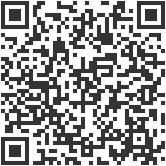
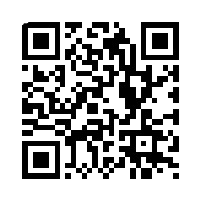
1029_2

diff --git a/index.html b/index.html
@@ -80,8 +80,8 @@
                             </div>
                         </div>
                         <div class="download">
-                            <a href="" class="download-btn"><img src="./assets/images/side/download_Ad.png" alt=""></a>
-                            <a href="" class="download-btn"><img src="./assets/images/side/download_IOS.png" alt=""></a>
+                            <a href="https://play.google.com/store/apps/details?id=com.ytb&pcampaignid=web_share" class="download-btn"><img src="./assets/images/side/download_Ad.png" alt=""></a>
+                            <a href="https://apps.apple.com/tw/app/%E8%82%A1%E7%A5%A8%E9%87%91%E5%A5%BD%E5%80%9F/id1125317071" class="download-btn"><img src="./assets/images/side/download_IOS.png" alt=""></a>
                         </div>
                     </div>
                    
@@ -241,10 +241,10 @@
                                     <img src="assets/images/app/QRcode.png" alt="QRcode">
                                 </div>
                                 <div class="store">
-                                    <a id="applestore" target="_blank" href="https://itunes.apple.com/tw/app/yuan-da-yin-xing-yuanta-commercial/id1173515038">
+                                    <a id="applestore" target="_blank" href="https://apps.apple.com/tw/app/%E8%82%A1%E7%A5%A8%E9%87%91%E5%A5%BD%E5%80%9F/id1125317071">
                                         <img src="./assets/images/side/download_IOS.png" alt="App Store">
                                     </a>
-                                    <a id="googleplay" target="_blank" href="https://play.google.com/store/apps/details?id=com.yuantabank.newmobilebank.android&amp;hl=zh_TW">
+                                    <a id="googleplay" target="_blank" href="https://play.google.com/store/apps/details?id=com.ytb&pcampaignid=web_share">
                                         <img src="./assets/images/side/download_Ad.png" alt="Google Play">
                                     </a>
                                 </div>

diff --git a/assets/css/common.css b/assets/css/common.css
@@ -183,7 +183,6 @@ img {
 .appDownload-QRcode{
     width: 184px;
     height: 184px;
-    padding: 16px;
     background-color: white;
     border-radius: 16px;
 }
